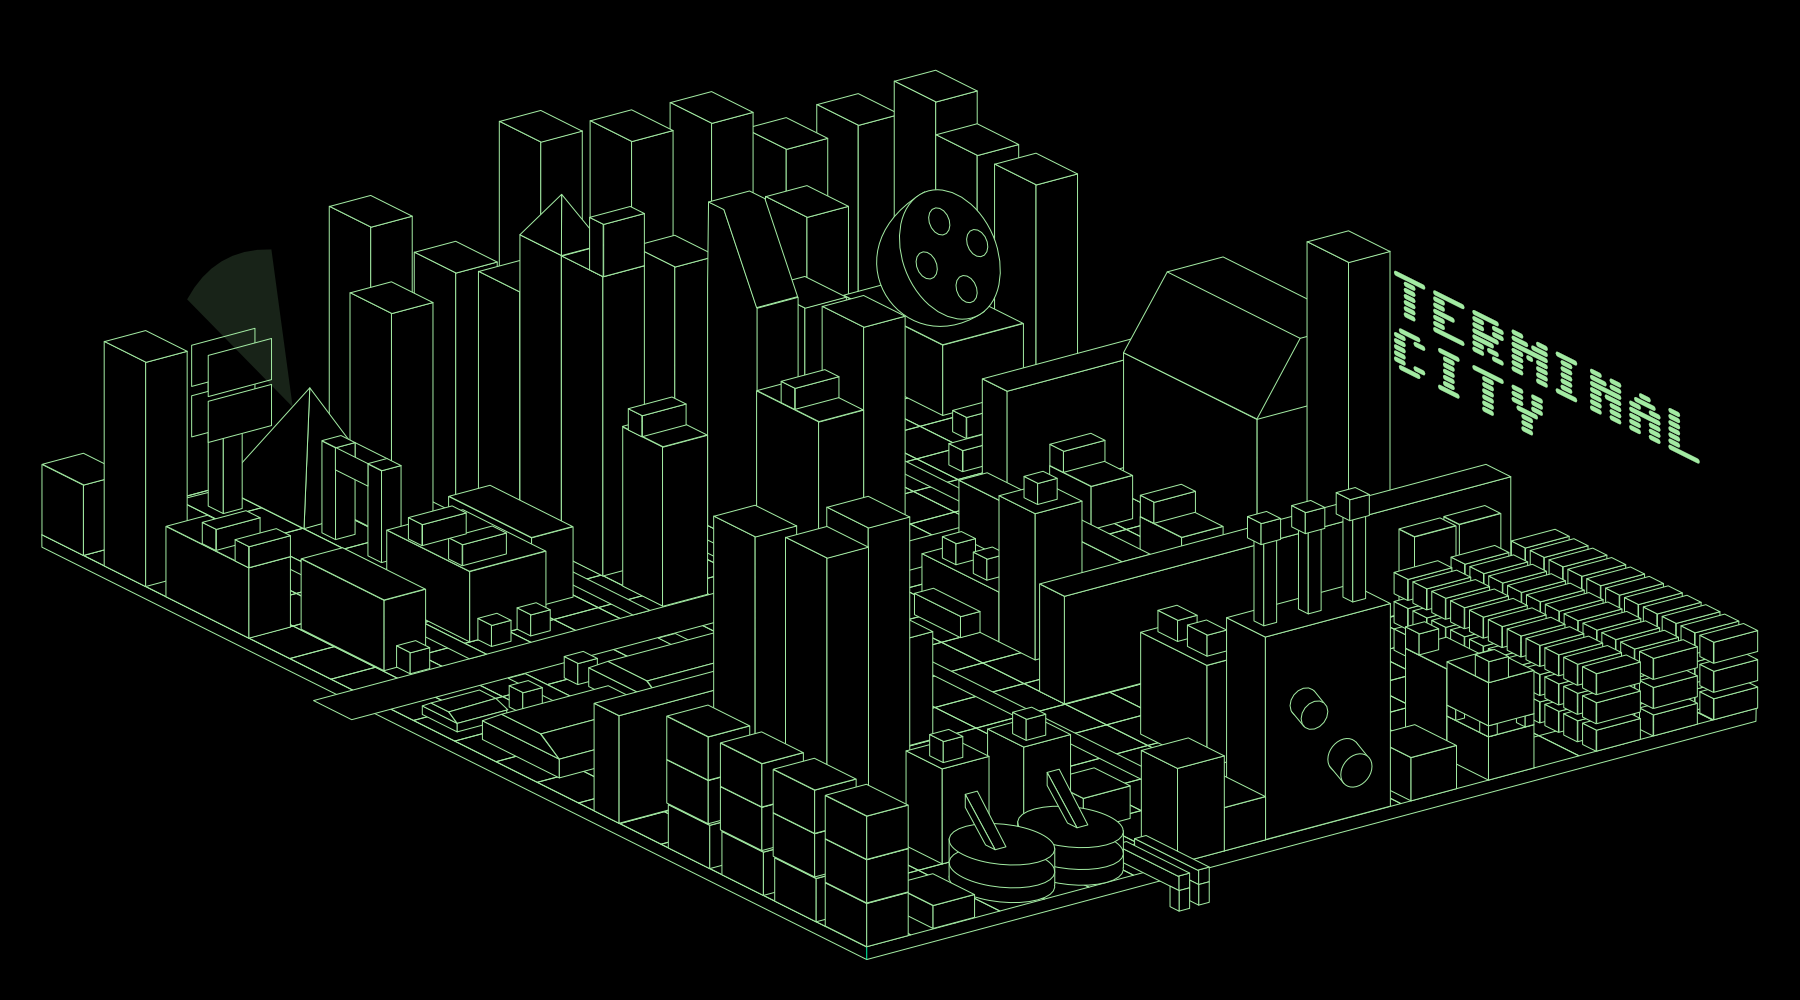
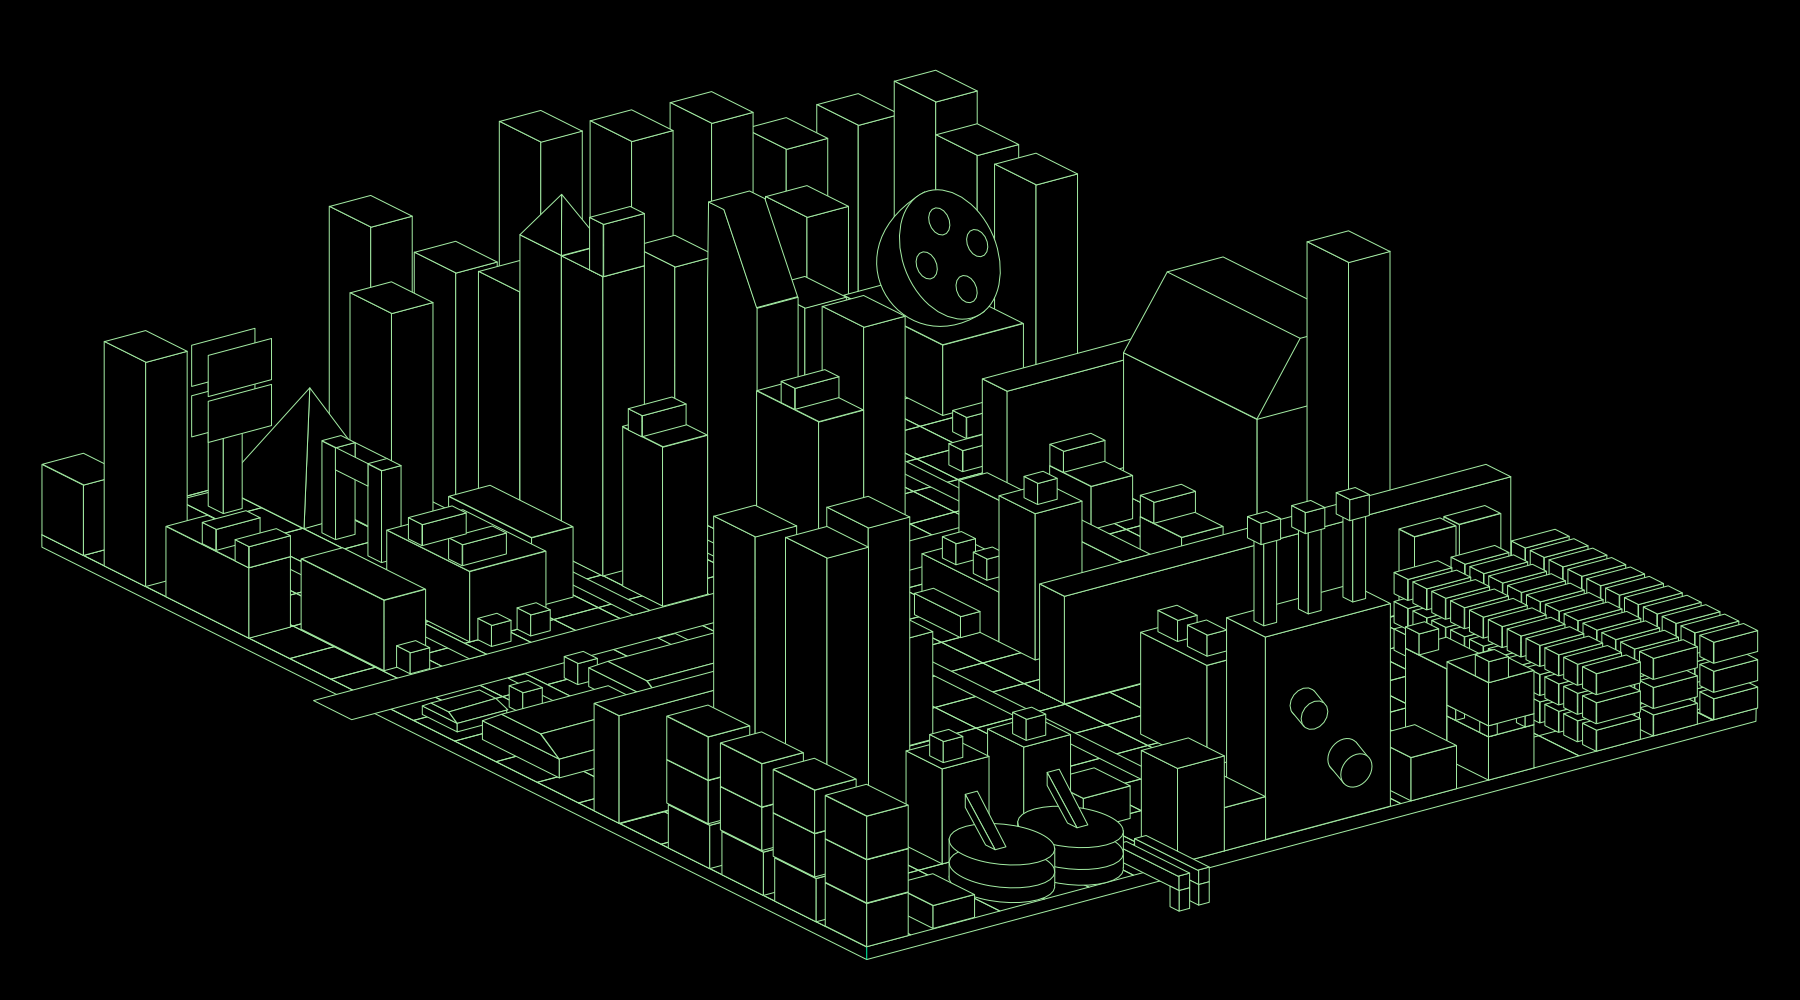
feat: Enhance CityMap component with new scanning text and improved hotspot accessibility. Hotspots can be selected via keyboard. Added SVG text to add further theming to citymap

Changed region(s): [[0.7778, 0.279, 0.9333, 0.465], [0.0933, 0.248, 0.1867, 0.403]]

diff --git a/src/CityMap.tsx b/src/CityMap.tsx
@@ -1,7 +1,6 @@
-import type { ReactElement } from "react";
+import { type ReactElement } from "react";
 import { v4 as uuid4 } from "uuid";
 import { Tooltip } from "react-tooltip";
-
 interface HotSpotShape {
   ident: string;
   name: string;
@@ -18,6 +17,7 @@ export default function CityMap() {
           className="hotspot"
           data-tooltip-id="city-tooltip"
           data-tooltip-content="D3 - Industrial"
+          tabIndex={0}
           d="M1918.26,1199L1918.26,929.253L1885.4,912.821L1885.4,815L1890.32,813L1890.32,784.717L1871,775.055L1846.39,782.147L1846.39,810.397L1855.4,814.902L1855.4,906L1826.4,914L1826.4,831L1831.32,830L1831.32,801.87L1813,792.709L1787.39,799.3L1787.39,827.55L1796.4,832.056L1796.35,922L1767.4,930L1767.4,846L1772.67,844L1772.67,816.442L1754,807.106L1728.74,813.872L1728.74,842.122L1737,846.254L1737.35,938L1701,948.013L1701,964.791L1673.72,950.757L1662.22,953.379L1662.21,944.998L1635.09,931.44L1609.97,938.278L1609.97,961.21L1587.05,967.381L1587.05,1102.17L1615.31,1116.71L1588.22,1124.08L1587.22,1239.25L1594,1236.76L1657,1268.26L1918.26,1199Z"
         />
       ),
@@ -30,6 +30,7 @@ export default function CityMap() {
           data-tooltip-id="city-tooltip"
           data-tooltip-content="D7 - Black Market"
           className="hotspot"
+          tabIndex={0}
           d="M2109.68,1147.21L2108.68,1018.29L2056,989.198L2035,994L1992,973L1983,976L1983,962L1964,953L1938,960L1938,1093L1918.26,1098.39L1918.26,1177L1945.67,1190.97L2109.68,1147.21Z"
         />
       ),
@@ -42,6 +43,7 @@ export default function CityMap() {
           data-tooltip-id="city-tooltip"
           data-tooltip-content="D4 - Water Treatment"
           className="hotspot"
+          tabIndex={0}
           d="M1678,1326L1678,1278.76L1595,1237.26L1579,1241.01L1579,1250.26L1569,1245.26L1564.14,1246L1564.14,1230.51C1564.14,1230.51 1564.63,1226.2 1557.04,1219.01C1560.97,1217.19 1573.6,1214.86 1573.08,1214.34C1572.93,1210.02 1573.2,1183.42 1573.08,1171.23C1559.27,1164.01 1550,1159.45 1524.84,1147.11C1518.31,1149.09 1494.24,1155.45 1494.24,1155.45L1494.06,1134L1494.06,1102.97L1461,1086.44L1461.15,1076.04L1442,1066.47L1417.21,1073.47L1417.21,1087L1384.3,1095.74L1384.3,1131.13L1351.15,1114.56L1351.15,1105.52L1333,1096.44L1307.21,1102.95L1307.21,1116.42L1276.16,1124.71L1276.16,1195L1280.45,1198L1280.45,1253L1323.88,1274.59L1332.98,1272C1332.98,1272 1332.53,1291.42 1332.98,1295.53C1333.06,1296.32 1332.99,1298.63 1334.97,1299.38C1335.93,1299.74 1364.92,1314.22 1366.45,1315.12C1367.12,1315.52 1366.94,1318.65 1367.7,1318.96C1374.91,1321.88 1384.31,1324.17 1394,1325C1479.61,1332.31 1473.14,1303 1473.14,1303L1473.14,1299C1473.14,1299 1514.05,1308.14 1541,1300C1567.95,1291.86 1563.95,1281.52 1564.14,1273C1564.15,1272.52 1626,1304.01 1626,1304.01L1626,1331.27L1638,1337.27L1652,1333.5L1652,1324L1664,1329L1678,1326Z"
         />
       ),
@@ -54,6 +56,7 @@ export default function CityMap() {
           data-tooltip-id="city-tooltip"
           data-tooltip-content="D11 - Freight/Transport"
           className="hotspot"
+          tabIndex={0}
           d="M2405.89,1067.92L2405.39,965.091L2136,830.395L2078.74,846.286L2078.74,862.73L2064.78,856.304L2064.78,809.853L2044,799.463L1929.71,830.263L1929.71,885L1923.18,887.97L1923.18,991.168L1938.36,998.759L1938.36,960.147L1964,953.569L1982.3,962.717L1982.3,977L1992,973.448L2036,995.448L2056,990.072L2108.68,1019.29L2108.68,1084L2192,1125L2405.89,1067.92Z"
         />
       ),
@@ -66,6 +69,7 @@ export default function CityMap() {
           data-tooltip-id="city-tooltip"
           data-tooltip-content="D9 - Food/Dining"
           className="hotspot"
+          tabIndex={0}
           d="M1366.75,1348L1366.75,1315.27L1311.73,1287.76L1280.78,1296L1280.78,1198L1225.73,1170.64L1212.73,1174L1212.73,1164.14L1156.68,1136.12L1141.73,1140L1141.73,1128.64L1086.68,1101.12L1070.6,1105L1070.6,1093.07L1015.56,1065.55L960.836,1079.96L960.836,1253.47L1225.73,1385.91L1366.75,1348Z"
         />
       ),
@@ -78,6 +82,7 @@ export default function CityMap() {
           data-tooltip-id="city-tooltip"
           data-tooltip-content="D13 - Slums"
           className="hotspot"
+          tabIndex={0}
           d="M1020.34,812.954L1076.06,798.044L1130.78,825.403L1130.78,838L1170.32,827.178L1170.34,801.589L1226.06,786.178L1280.78,814.035L1280.78,1123L1276.16,1124L1276.16,1195.69L1225.73,1170.48L1212,1174L1212,1163.61L1157,1136.11L1142,1140L1142,1128.61L1087,1101.11L1071,1105L1071,1093.11L1021,1068.11L1020.34,812.954Z"
         />
       ),
@@ -91,6 +96,7 @@ export default function CityMap() {
           data-tooltip-id="city-tooltip"
           data-tooltip-content="D10 - Medical"
           className="hotspot"
+          tabIndex={0}
           d="M1297.28,863.137L1297.28,913.164L1287.06,915.752L1287.06,944.002L1348.09,974.517L1374,968L1447.18,1004.1L1453.03,1003.16L1453.03,903.302L1509.22,887L1509.22,793.461L1476.31,777.004L1476.31,763.196L1458,754.042L1432.37,760.626L1432.37,777L1428,778L1383,755.498L1346.03,765.577L1346.03,834L1324.06,840.56L1324.06,856L1297.28,863.137Z"
         />
       ),
@@ -103,6 +109,7 @@ export default function CityMap() {
           data-tooltip-id="city-tooltip"
           data-tooltip-content="D2 - Detention/Security"
           className="hotspot"
+          tabIndex={0}
           d="M1863.06,435.049L1917.78,462.408L1917.78,779L1892,785.555L1872,775.555L1847,783L1846,798L1832,802L1813,792L1788,799L1787,814L1774,817L1752.74,807L1729,813.816L1729,830L1601,864L1586.22,857.109L1586.22,795.5L1576.39,791L1576.39,817L1531,829.498L1509.22,818.609L1509.22,794L1477,777L1477,763.542L1466.34,758.213L1466.34,718L1521.34,702.62L1539.69,712.794L1539.69,741.044L1564,753.198L1564.32,596.583L1622.32,489.372L1697,469.848L1808,525.348L1808,450L1863.06,435.049Z"
         />
       ),
@@ -115,6 +122,7 @@ export default function CityMap() {
           data-tooltip-id="city-tooltip"
           data-tooltip-content="D6 - Trade/Market"
           className="hotspot"
+          tabIndex={0}
           d="M862.119,1148L816,1160.51L714,1109.51L714,1091L680.586,1099.5L634.25,1076.33L634.25,1065.05L645.834,1061.16L710,1043.92L731.735,1054.79L748.818,1070.62L746,1071L746,1074L758,1071L749.5,1066.45L749.5,1038.2L775,1031.55L793.436,1040.77L793.436,1062L862,1043L855,1039L855,1033L841,1037L822,1027.49L822.5,999.493L848,992.845L866.436,1002.06L866.436,1011L881,1006.14L1020.34,969L1020.73,1019L862.447,1061.55L862.119,1148Z"
         />
       ),
@@ -127,6 +135,7 @@ export default function CityMap() {
           data-tooltip-id="city-tooltip"
           data-tooltip-content="D1 - Central Administration"
           className="hotspot"
+          tabIndex={0}
           d="M583.606,1018.3L473.56,963.275L473.56,870.025L528.583,855.264L587,884.473L587.41,831.784L616,824L615.853,815.285L669.761,800.752L669.761,786.977L723.776,772.215L834.244,827.449L834.244,920.113L798.721,930.73L798.244,934L804,937L804,965L779,972L760,963L752,964.973L752,979L726,986L708,977L697.152,980.174L639,951.098L638.652,985.048L644.097,987.77L644.097,1015L618,1022L600.161,1013.45L583.606,1018.3Z"
         />
       ),
@@ -139,6 +148,7 @@ export default function CityMap() {
           data-tooltip-id="city-tooltip"
           data-tooltip-content="D8 - Nightlife/Vice"
           className="hotspot"
+          tabIndex={0}
           d="M459.354,960L404.308,975.203L294,920.049L294.262,900L267,906.549C267,906.549 211.74,883.508 212,879.049C212.26,874.59 212.352,858 212.352,858L185,865.549L130,838.049L129.829,744.713L184.829,729.941L212.352,743.702L212.352,581.472L267.679,567.366L322.398,594.725L322.398,819.61L349,812.026L322.398,798.725L322.398,785.371L350,779L350.33,703L328.353,709L328.353,654L350.33,648L350.33,635L328.353,641.304L328.353,587.083L413,564L412,583L434.284,577.691L434.284,633L412.307,639.526L412.307,643L434.284,638.583L434.284,692.438L396,704L396,743L485.038,643.132L536,711.222L606.097,746.27L606.097,827L588,832L587,873L581,875L562.161,866L562.161,774L545.097,764.981L545.097,838L519.183,844.462L501.161,835L501.161,824L477,830L422,802.32L404,807L419,815L419.106,835L441,830.062L459.354,839.239L459.354,960Z"
         />
       ),
@@ -151,6 +161,7 @@ export default function CityMap() {
           data-tooltip-id="city-tooltip"
           data-tooltip-content="D12 - Communications"
           className="hotspot"
+          tabIndex={0}
           d="M1387,535.581L1430.92,557.542L1430.92,616L1377.35,631.214L1377.03,748L1351.36,754.224L1333,745.046L1332.68,717.138L1356,711L1338,702L1338,677L1324.53,679.802L1275,655.036L1275,549L1220,521L1202,525L1194,521L1242,507C1242,507 1216.93,446.926 1283,393C1350.97,337.521 1436.63,463.85 1387,535.581Z"
         />
       ),
@@ -163,6 +174,7 @@ export default function CityMap() {
           data-tooltip-id="city-tooltip"
           data-tooltip-content="D5 - Residential"
           className="hotspot"
+          tabIndex={0}
           d="M510.467,402.052L510.467,677L536,711.222L606.097,746.27L606.097,827L616,824L616,815L648.428,806L648.428,795L663,802L669.566,800.868L669.152,787.175L724,772L834.244,827.449L834.244,873L873.762,892.774L900.099,885.913L900.099,906.134L953,932.393L1012.64,916.647L1012.64,826L1020.34,829L1020.34,813L1076,798L1131,826L1131,838L1171,826.658L1171,802L1225,787.15L1275,811.15L1275,548.36L1220,520.86L1197,526L1197,522.284L1193.14,520.353L1242.77,507.474C1229.66,471.86 1239.37,442.215 1260.17,415.473C1272.06,403.607 1282.85,394.441 1292.65,387.731L1301.16,383.385C1375.14,362.619 1426.69,481.902 1386.51,535.334L1431.57,558.007L1431.28,617.179L1448.28,612.43L1503.32,597.243L1502.87,359.231L1448.83,332.21L1425.28,337.83L1425.28,320.433L1370.25,293.237L1370,249.437L1315.21,221.737L1260.21,236.18L1260.21,276.786L1212.78,253.073L1158.44,267.576L1157.69,305.109L1117.29,284.905L1073.39,296.738L1072.86,278.26L1018.26,250.421L962.218,264.168L962.218,299.586L911.829,274.392L857.438,288.966L856.161,431.243L846.334,419.147L847,303L791.403,275L736.403,289.51L737,481L733.628,482L733.628,476.317L678,448.503L623.391,463L623.582,517L621,516.333L621,416L566,388L510.467,402.052Z"
         />
       ),
@@ -172,14 +184,17 @@ export default function CityMap() {
   return (
     <>
       <Tooltip id="city-tooltip" className="custom-tooltip"></Tooltip>
-      
+
       <svg id="city-map" viewBox=" 0 0 1800 1000">
         {/* base map image */}
         <image href="../public/cityMap.png" width="1800" height="1000"></image>
         {/* render district hotspots using transform from original SVG to line up all elements in the same local space */}
         {hotspots.map((spot) => {
           return (
-            <g transform="matrix(0.753961,0,0,0.753961,-55.9154,-97.0835)">
+            <g
+              key={spot.ident}
+              transform="matrix(0.753961,0,0,0.753961,-55.9154,-97.0835)"
+            >
               {spot.hotspot}
             </g>
           );
@@ -190,7 +205,14 @@ export default function CityMap() {
             id="scan-line-overlay"
             transform="matrix(1.2575,-0.0280676,-0.124116,1.02139,132.175,91.4718)"
           >
-            <rect className="scan-line" x="0" y="0" width="100%" height="50" transform="rotate(32)">
+            <rect
+              className="scan-line"
+              x="0"
+              y="0"
+              width="100%"
+              height="50"
+              transform="rotate(32)"
+            >
               <animateMotion
                 path="M1282.95,262.783L69.079,648.043"
                 begin="0s"
@@ -198,7 +220,14 @@ export default function CityMap() {
                 repeatCount="indefinite"
               />
             </rect>
-            <rect className="scan-line" x="0" y="0" width="100%" height="20" transform="rotate(32)">
+            <rect
+              className="scan-line"
+              x="0"
+              y="0"
+              width="100%"
+              height="20"
+              transform="rotate(32)"
+            >
               <animateMotion
                 path="M1282.95,262.783L69.079,648.043"
                 begin="0s"
@@ -216,19 +245,25 @@ export default function CityMap() {
           href="../public/cityMap.png"
           width="1800"
           height="1000"
-          clip-path="url(#scan-line-overlay)"
+          clipPath="url(#scan-line-overlay)"
         />
-              <g id="scan-path"  transform="matrix(1.2575,-0.0280676,-0.124116,1.02139,132.175,91.4718)">
-            <path className="scan-line" d="M1282.95,262.783L69.079,648.043"/>
-        </g>
+        <text className="scanning-text" x="0" y="30" fontSize={50}>
+          Terminal City
+        </text>
+        <text className="scanning-text" x="5" y="60">
+          Scanning for violations...
+        </text>
+
+          <text className="small-city-string" x="40" y="540">
+          Terminal City 058#84849
+        </text>
+        <text className="small-city-string" x="40" y="560">
+          Districts 1-13
+        </text>
+         <text className="small-city-string" x="40" y="580">
+          Population 2,700,000
+        </text>
       </svg>
     </>
   );
 }
-
-
-     
- 
-
-
-     

diff --git a/src/App.css b/src/App.css
@@ -1237,15 +1237,35 @@ pointer-events: none;
 .hotspot{
   opacity: 0;
   transition: .3s;
+
 }
 .scan-path{
   stroke: white;
+}
+.scanning-text{
+  font-family:'Silkscreen', monospace;
+  fill:#a2eaa2;
+}
+.small-city-string{
+  transform:skewY(27deg);
+  font-family:'Silkscreen',monospace;
+  fill:#a2eaa2;
 }
 .hotspot:hover{
 fill: lightgreen;
 opacity: .5;
 filter: drop-shadow(0px -20px 2px rgb(181, 255, 181)) ;
 cursor: pointer;
+}
+.hotspot:focus{
+outline: none;
+}
+.hotspot:focus-visible{
+fill: lightgreen;
+opacity: .5;
+filter: drop-shadow(0px -20px 2px rgb(181, 255, 181)) ;
+cursor: pointer;
+outline:none;
 }
 @keyframes newMessageFloat {
   50% {
